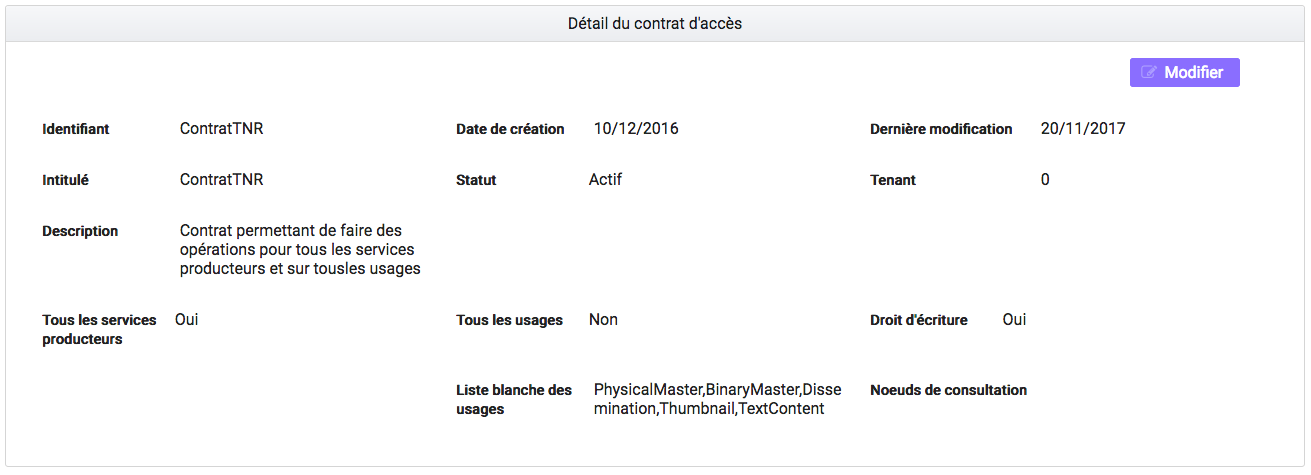
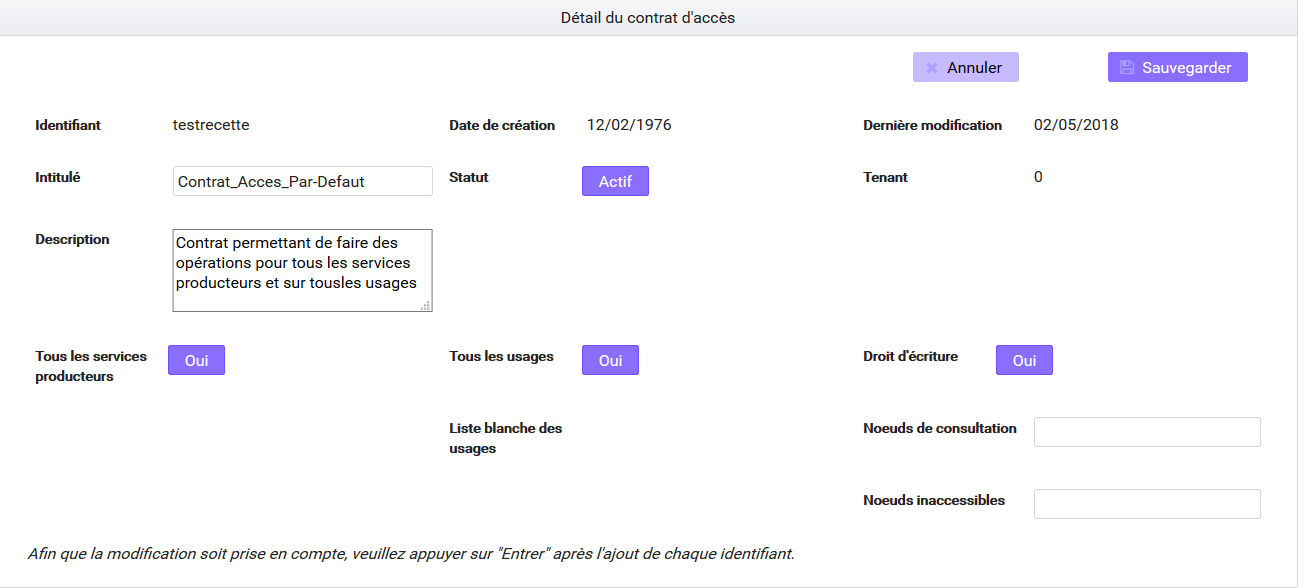
modif contrat acces et entrée, flèche vers le haut

diff --git a/doc/fr/manuel-utilisateur/Administration.rst b/doc/fr/manuel-utilisateur/Administration.rst
@@ -374,10 +374,13 @@ Pour accéder au détail d'un contrat, l'utilisateur clique sur la ligne souhait
 - Nœud de rattachement
 - Contrôle sur noeud de rattachement
 - Tenant
+- Présence Obligatoire d'un master
+- Tous les usages 
+- Liste blanche des usages
 
 |
 
-    .. image:: images/detail_ce.png
+.. image:: images/detail_ce.png
 
 
 Modifier un contrat d'entrée
@@ -387,7 +390,7 @@ Il est possible de modifier un contrat d'entrée en cliquant sur le bouton "Modi
 
 |
 
-     .. image:: images/detail_ce.png
+.. image:: images/detail_ce_modif.png
 
 
 * Statut
@@ -407,6 +410,12 @@ Il est possible d'ajouter dans ce champ l'identifiant (GUID) d'une unité archiv
 En activant cette option un contrôle est effectué sur la cohérence du rattachement parent / enfant du SIP.
 
 Une fois les modifications saisies, un clic sur le bouton "Sauvegarder" permet de les enregistrer. A l'inverse, le bouton "Annuler" permet de retourner à l'état initial de l'écran du détail du contrat.
+
+
+* Contrôle sur les usages 
+
+- Il est possible via l'option " Présence obligatoire d'un Master " d'activer un contrôle sur la présence ou non d'un objet dont l'usage est déclaré de type "Master" dans le SIP relié au contrat 
+- Il est possible également d'activer / désactiver le contrôle sur une liste d'usages via les options dans le détail des contrats d'accès : " Tous les usages " permet d'autoriser la présence de tous les usages ou bien d'en sélectionner que certains via la "Liste blanche des usages". 
 
 Contrats d'accès
 =================
@@ -500,9 +509,11 @@ Pour accéder au détail d'un contrat, l'utilisateur clique sur la ligne souhait
 - Liste blanche des usages (permet de restreindre à certains usages)
 - Nœuds de consultation
 - Tenant
+- Noeuds inaccessibles
 
 
 .. image:: images/detail_ca.png
+
 
 
 Modifier un contrat d'accès
@@ -546,6 +557,11 @@ Un contrat peut restreindre l'accès aux unités archivistiques listées en tant
 
 
 Une fois les modifications saisies, un clic sur le bouton "Sauvegarder" permet de les enregistrer. A l'inverse, le bouton "Annuler" permet de retourner à l'état initial de l'écran du détail du contrat.
+
+
+*Restriction par nœud inaccessible*
+Un contrat peut restreindre l'accès à la consultation à partir de certains noeuds, grâce à l'option "Noeud inaccessible". Pour cela il faut déclarer l'id de l'unité archivistique dans le champs, et toutes les unités archivistiques de la descendance ne seront pas disponibles à la consultation.
+
 
 
 Contextes applicatifs

diff --git a/doc/fr/manuel-utilisateur/general.rst b/doc/fr/manuel-utilisateur/general.rst
@@ -39,7 +39,18 @@ Le titre de la page est visible sur les onglets des navigateurs Internet. Il cor
 
 |
 
-    .. image:: images/titre_IHM_demo.png
+.. image:: images/titre_IHM_demo.png
+
+
+
+Flèche Retour en haut de page
+=============================
+
+- Pour toutes les pages , un bouton " Retour en haut de page " permet de retourner tout en haut de la page en cliquant sur l'icone. 
+
+
+.. image:: images/fleche.png
+
 
 
 Formulaire de recherche
